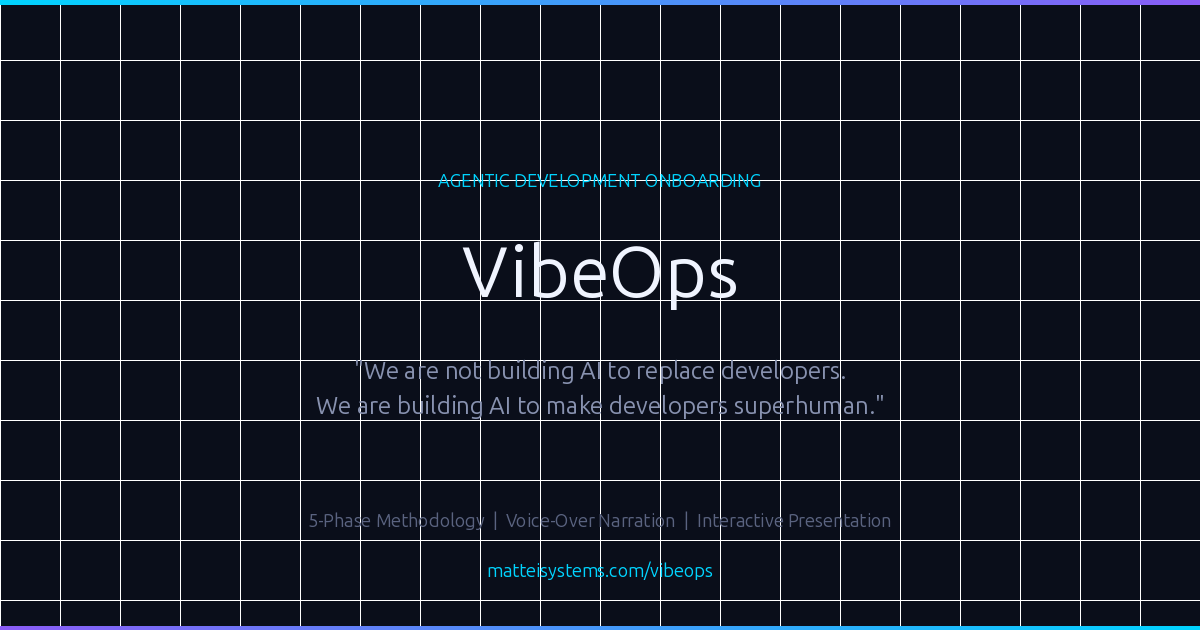
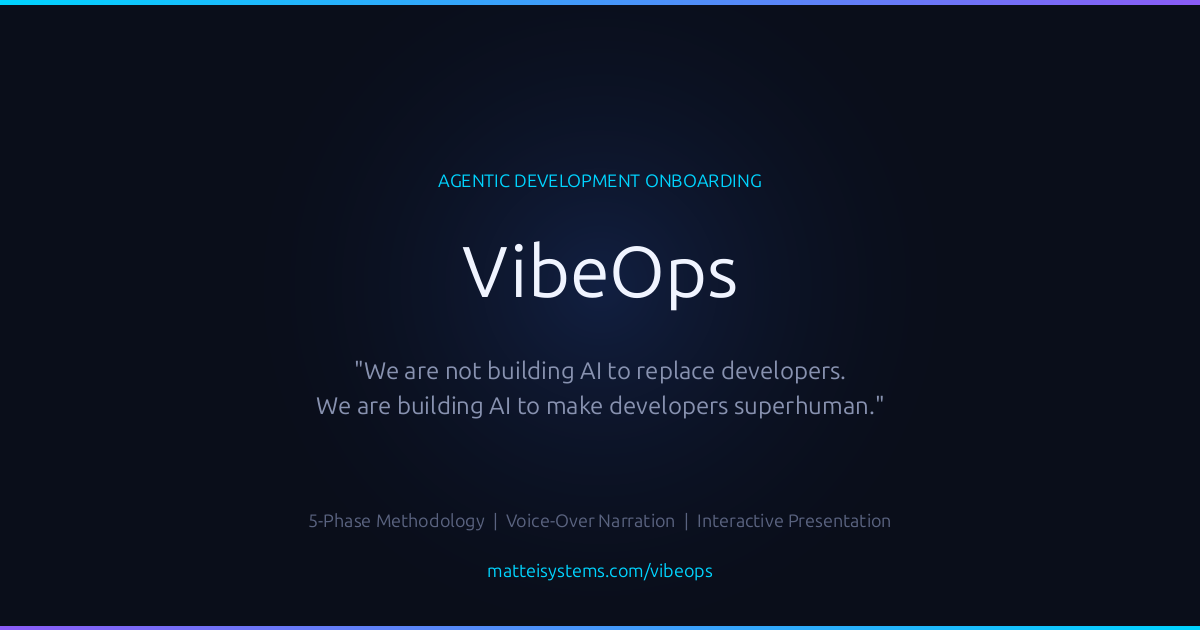
Fix OG image: remove grid pattern, add subtle radial glow
The grid lines were rendering at full opacity (Pillow ignores alpha
on RGB images), creating a distracting crosshatch pattern. Replaced
with a subtle blue-purple radial glow centered on the text.

diff --git a/presentation/generate-og-image.py b/presentation/generate-og-image.py
@@ -21,11 +21,23 @@ def main():
     img = Image.new("RGB", (W, H), (10, 14, 26))
     draw = ImageDraw.Draw(img)
 
-    # Grid lines (subtle)
-    for x in range(0, W, 60):
-        draw.line([(x, 0), (x, H)], fill=(255, 255, 255, 8), width=1)
-    for y in range(0, H, 60):
-        draw.line([(0, y), (W, y)], fill=(255, 255, 255, 8), width=1)
+    # Subtle radial glow in center
+    import math
+    cx, cy = W // 2, H // 2 - 30
+    for y in range(H):
+        for x in range(W):
+            dist = math.sqrt((x - cx) ** 2 + (y - cy) ** 2)
+            max_dist = 400
+            if dist < max_dist:
+                intensity = (1 - dist / max_dist) ** 2
+                r0, g0, b0 = img.getpixel((x, y))
+                # Blue-purple glow
+                r = min(255, int(r0 + 8 * intensity))
+                g = min(255, int(g0 + 18 * intensity))
+                b = min(255, int(b0 + 40 * intensity))
+                img.putpixel((x, y), (r, g, b))
+
+    draw = ImageDraw.Draw(img)  # Recreate after pixel edits
 
     # Gradient accent bar at top
     for x in range(W):
